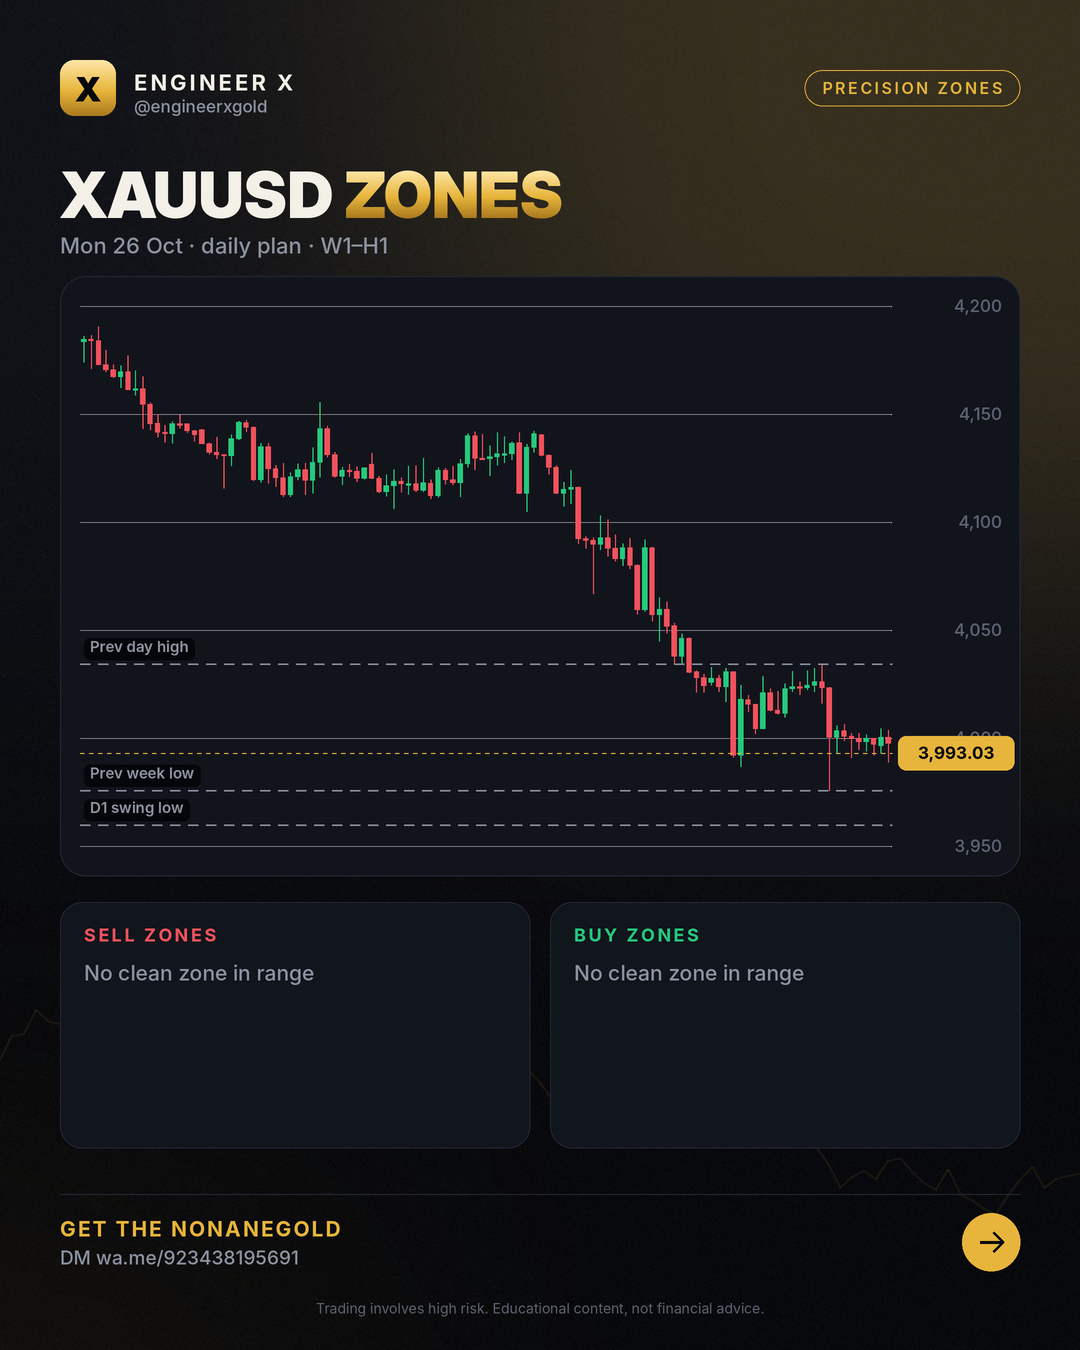
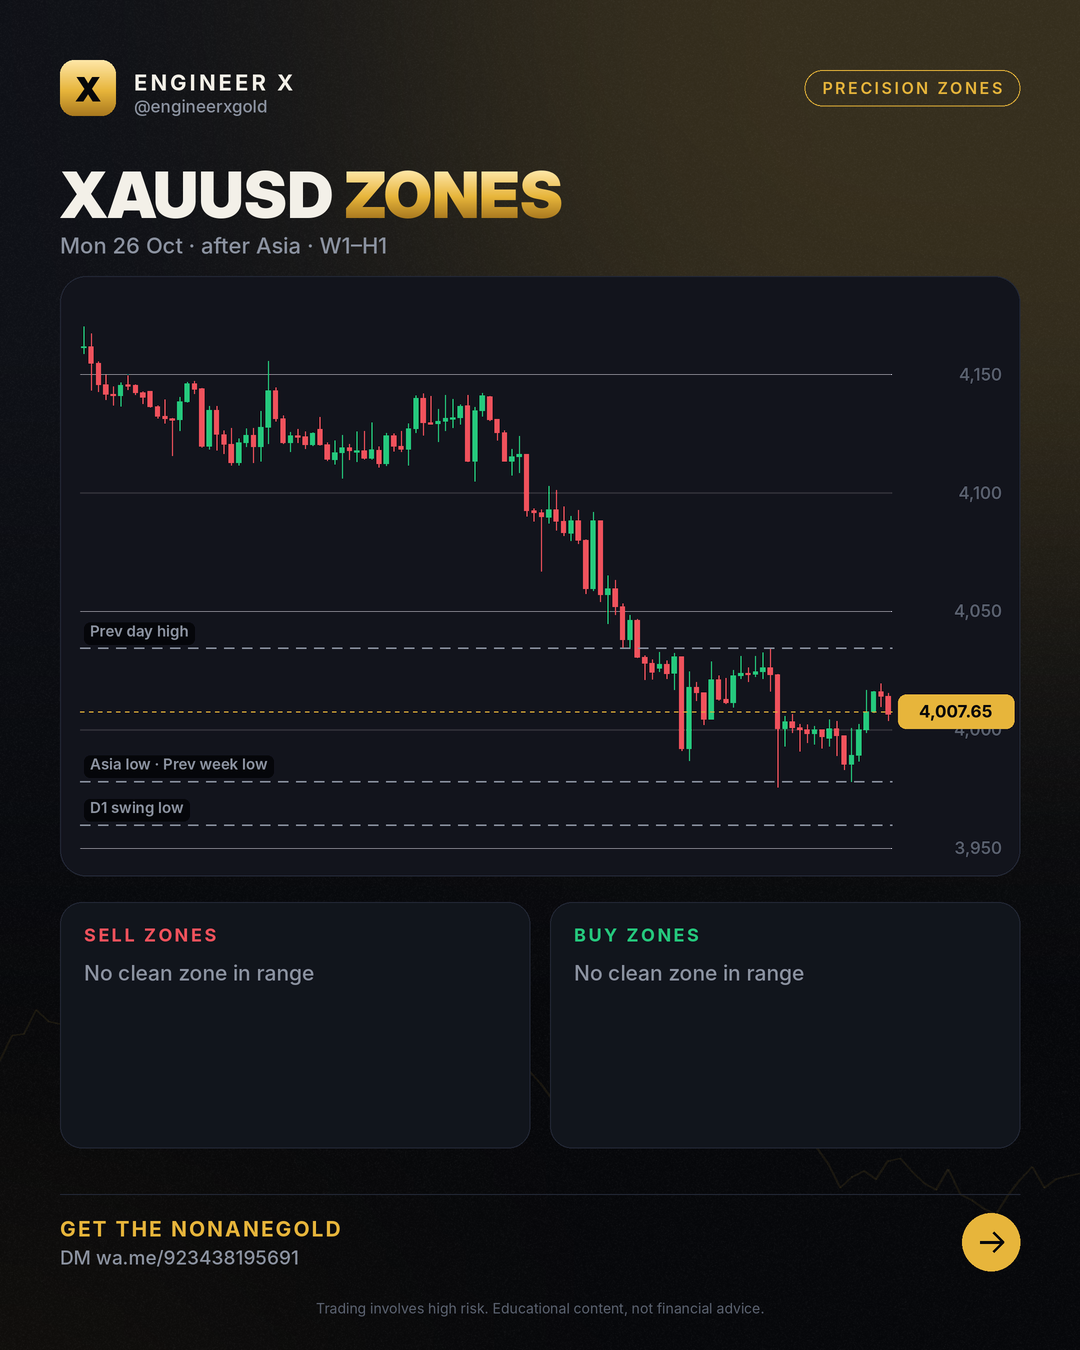
zones 2026-10-26 Mon 26 Oct · after Asia · W1–H1

diff --git a/zones/2026-10-26/index.html b/zones/2026-10-26/index.html
@@ -4,7 +4,7 @@
 <meta charset="utf-8">
 <meta name="viewport" content="width=device-width,initial-scale=1">
 <title>Gold Forecast – 26 Oct 2026 (W1–H1)</title>
-<meta name="description" content="XAUUSD buy and sell zones for 2026-10-26: tested W1, D1, H4 and H1 zones with invalidation levels, updated after the Asian, London and New York sessions. Price 3,993.03.">
+<meta name="description" content="XAUUSD buy and sell zones for 2026-10-26: tested W1, D1, H4 and H1 zones with invalidation levels, updated after the Asian, London and New York sessions. Price 4,007.65.">
 <meta name="robots" content="index,follow,max-image-preview:large,max-snippet:-1,max-video-preview:-1">
 <meta name="author" content="Engr. M Ahmad Mehmood">
 <link rel="canonical" href="https://engineerxgold.github.io/zones/2026-10-26/">
@@ -12,7 +12,7 @@
 <link rel="apple-touch-icon" href="../../img/logo.png">
 <meta property="og:site_name" content="Engineer X">
 <meta property="og:title" content="Gold Forecast – 26 Oct 2026 (W1–H1)">
-<meta property="og:description" content="XAUUSD buy and sell zones for 2026-10-26: tested W1, D1, H4 and H1 zones with invalidation levels, updated after the Asian, London and New York sessions. Price 3,993.03.">
+<meta property="og:description" content="XAUUSD buy and sell zones for 2026-10-26: tested W1, D1, H4 and H1 zones with invalidation levels, updated after the Asian, London and New York sessions. Price 4,007.65.">
 <meta property="og:type" content="article">
 <meta property="og:url" content="https://engineerxgold.github.io/zones/2026-10-26/">
 <meta property="og:image" content="https://engineerxgold.github.io/zones/img/2026-10-26.png">
@@ -22,7 +22,7 @@
 <meta property="og:locale" content="en_US">
 <meta name="twitter:card" content="summary_large_image">
 <meta name="twitter:title" content="Gold Forecast – 26 Oct 2026 (W1–H1)">
-<meta name="twitter:description" content="XAUUSD buy and sell zones for 2026-10-26: tested W1, D1, H4 and H1 zones with invalidation levels, updated after the Asian, London and New York sessions. Price 3,993.03.">
+<meta name="twitter:description" content="XAUUSD buy and sell zones for 2026-10-26: tested W1, D1, H4 and H1 zones with invalidation levels, updated after the Asian, London and New York sessions. Price 4,007.65.">
 <meta name="twitter:image" content="https://engineerxgold.github.io/zones/img/2026-10-26.png">
 <meta name="twitter:image:alt" content="Gold Forecast – 26 Oct 2026 (W1–H1)">
 
@@ -32,7 +32,7 @@
 <link rel="preconnect" href="https://fonts.googleapis.com">
 <link rel="preconnect" href="https://fonts.gstatic.com" crossorigin>
 <link href="https://fonts.googleapis.com/css2?family=Inter:wght@400;500;600;800;900&display=swap" rel="stylesheet">
-<script type="application/ld+json">{"@context": "https://schema.org", "@type": "Organization", "@id": "https://engineerxgold.github.io/#organization", "name": "Engineer X", "url": "https://engineerxgold.github.io/", "logo": {"@type": "ImageObject", "url": "https://engineerxgold.github.io/img/logo.png", "width": 512, "height": 512}, "sameAs": ["https://t.me/engineerxgold"]}</script><script type="application/ld+json">{"@context": "https://schema.org", "@type": "Article", "headline": "Gold Forecast – 26 Oct 2026 (W1–H1)", "datePublished": "2026-10-26T08:00:00+05:00", "dateModified": "2026-10-26T05:04:16+05:00", "author": {"@type": "Person", "@id": "https://engineerxgold.github.io/about/#author", "name": "Engr. M Ahmad Mehmood", "url": "https://engineerxgold.github.io/about/", "jobTitle": "MQL5 Expert Advisor developer and gold market analyst", "worksFor": {"@id": "https://engineerxgold.github.io/#organization"}}, "publisher": {"@id": "https://engineerxgold.github.io/#organization"}, "image": "https://engineerxgold.github.io/zones/img/2026-10-26.png", "mainEntityOfPage": "https://engineerxgold.github.io/zones/2026-10-26/"}</script>
+<script type="application/ld+json">{"@context": "https://schema.org", "@type": "Organization", "@id": "https://engineerxgold.github.io/#organization", "name": "Engineer X", "url": "https://engineerxgold.github.io/", "logo": {"@type": "ImageObject", "url": "https://engineerxgold.github.io/img/logo.png", "width": 512, "height": 512}, "sameAs": ["https://t.me/engineerxgold"]}</script><script type="application/ld+json">{"@context": "https://schema.org", "@type": "Article", "headline": "Gold Forecast – 26 Oct 2026 (W1–H1)", "datePublished": "2026-10-26T08:00:00+05:00", "dateModified": "2026-10-26T12:04:44+05:00", "author": {"@type": "Person", "@id": "https://engineerxgold.github.io/about/#author", "name": "Engr. M Ahmad Mehmood", "url": "https://engineerxgold.github.io/about/", "jobTitle": "MQL5 Expert Advisor developer and gold market analyst", "worksFor": {"@id": "https://engineerxgold.github.io/#organization"}}, "publisher": {"@id": "https://engineerxgold.github.io/#organization"}, "image": "https://engineerxgold.github.io/zones/img/2026-10-26.png", "mainEntityOfPage": "https://engineerxgold.github.io/zones/2026-10-26/"}</script>
 
 <style>
 :root{--gold:#E7B53B;--gold-hi:#FFE7A8;--bg:#07080B;--bg2:#0E1016;--panel:#12151D;--line:#232836;--green:#25C97D;--red:#F0525C;--text:#F3F0E8;--muted:#8C93A1}
@@ -101,7 +101,7 @@ footer .fl a{color:var(--muted);margin-right:16px}
 <div class="wrap">
 <nav><a class="logo" href="../../"><b>X</b>Engineer X</a>
 <div class="links"><a href="../../zones/">Daily Zones</a><a href="../../blog/">Learn</a><a href="../../ea/">Gold EA</a><a href="../../about/">About</a><a class="cta" href="https://wa.me/923438195691">Get the EA</a></div></nav>
-<article><p class="crumbs"><a href="../../">Home</a> › <a href="../">Zones</a> › 2026-10-26</p><h1>Gold Forecast – 26 Oct 2026 (W1–H1)</h1><p class="byline">Mon 26 Oct · daily plan · W1–H1 · by Engr. M Ahmad Mehmood</p><img src="../img/2026-10-26.png" alt="XAUUSD zone map 2026-10-26" width="1080" height="1350" loading="eager"><h2>Zones</h2><p>No clean zone within reach right now.</p><h2>How to read this map</h2><p>Bands are where price is expected to react; they are not entries. Trading beyond the invalidation price ends the zone; each zone counts once (first touch). Highs and lows listed as liquidity are targets: on 10 years of gold price ran through them more often than through random levels.</p><div class="ctabox"><h3>🤖 Trade the zones with the NonaneGold</h3><p>Free signals group access + setup help Message us and we will help you set it up.</p><div class="btns"><a class="btn gold" href="https://wa.me/923438195691">Get the EA on Telegram</a><a class="btn ghost" href="../../ea/">About the EA</a></div></div></article>
+<article><p class="crumbs"><a href="../../">Home</a> › <a href="../">Zones</a> › 2026-10-26</p><h1>Gold Forecast – 26 Oct 2026 (W1–H1)</h1><p class="byline">Mon 26 Oct · after Asia · W1–H1 · by Engr. M Ahmad Mehmood</p><img src="../img/2026-10-26.png" alt="XAUUSD zone map 2026-10-26" width="1080" height="1350" loading="eager"><h2>Zones</h2><p>No clean zone within reach right now.</p><h2>How to read this map</h2><p>Bands are where price is expected to react; they are not entries. Trading beyond the invalidation price ends the zone; each zone counts once (first touch). Highs and lows listed as liquidity are targets: on 10 years of gold price ran through them more often than through random levels.</p><div class="ctabox"><h3>🤖 Trade the zones with the NonaneGold</h3><p>Free signals group access + setup help Message us and we will help you set it up.</p><div class="btns"><a class="btn gold" href="https://wa.me/923438195691">Get the EA on Telegram</a><a class="btn ghost" href="../../ea/">About the EA</a></div></div></article>
 <footer>
 <div class="warn"><b>Risk warning:</b> Trading gold, forex and CFDs carries a high risk of losing money and is not suitable for everyone. Past results do not guarantee future results. Everything on this site is educational and not financial advice. We are an introducing partner of our broker and may earn a commission on accounts opened through our link.</div>
 <p class="fl" style="margin-top:18px"><a href="../../about/">About &amp; methodology</a><a href="../../privacy.html">Privacy</a><a href="../../terms.html">Terms &amp; risk disclosure</a><a href="../../feed.xml">RSS</a><a href="https://t.me/engineerxgold">Telegram</a></p>

diff --git a/zones/index.html b/zones/index.html
@@ -4,7 +4,7 @@
 <meta charset="utf-8">
 <meta name="viewport" content="width=device-width,initial-scale=1">
 <title>XAUUSD Zones Today – Buy &amp; Sell Zones (H4, H1) | Engineer X</title>
-<meta name="description" content="XAUUSD buy and sell zones for 2026-10-26: tested W1, D1, H4 and H1 zones with invalidation levels, updated after the Asian, London and New York sessions. Price 3,993.03.">
+<meta name="description" content="XAUUSD buy and sell zones for 2026-10-26: tested W1, D1, H4 and H1 zones with invalidation levels, updated after the Asian, London and New York sessions. Price 4,007.65.">
 <meta name="robots" content="index,follow,max-image-preview:large,max-snippet:-1,max-video-preview:-1">
 <meta name="author" content="Engr. M Ahmad Mehmood">
 <link rel="canonical" href="https://engineerxgold.github.io/zones/">
@@ -12,7 +12,7 @@
 <link rel="apple-touch-icon" href="../img/logo.png">
 <meta property="og:site_name" content="Engineer X">
 <meta property="og:title" content="XAUUSD Zones Today – Buy &amp; Sell Zones (H4, H1) | Engineer X">
-<meta property="og:description" content="XAUUSD buy and sell zones for 2026-10-26: tested W1, D1, H4 and H1 zones with invalidation levels, updated after the Asian, London and New York sessions. Price 3,993.03.">
+<meta property="og:description" content="XAUUSD buy and sell zones for 2026-10-26: tested W1, D1, H4 and H1 zones with invalidation levels, updated after the Asian, London and New York sessions. Price 4,007.65.">
 <meta property="og:type" content="website">
 <meta property="og:url" content="https://engineerxgold.github.io/zones/">
 <meta property="og:image" content="https://engineerxgold.github.io/zones/img/2026-10-26.png">
@@ -22,7 +22,7 @@
 <meta property="og:locale" content="en_US">
 <meta name="twitter:card" content="summary_large_image">
 <meta name="twitter:title" content="XAUUSD Zones Today – Buy &amp; Sell Zones (H4, H1) | Engineer X">
-<meta name="twitter:description" content="XAUUSD buy and sell zones for 2026-10-26: tested W1, D1, H4 and H1 zones with invalidation levels, updated after the Asian, London and New York sessions. Price 3,993.03.">
+<meta name="twitter:description" content="XAUUSD buy and sell zones for 2026-10-26: tested W1, D1, H4 and H1 zones with invalidation levels, updated after the Asian, London and New York sessions. Price 4,007.65.">
 <meta name="twitter:image" content="https://engineerxgold.github.io/zones/img/2026-10-26.png">
 <meta name="twitter:image:alt" content="XAUUSD Zones Today – Buy &amp; Sell Zones (H4, H1) | Engineer X">
 
@@ -101,7 +101,7 @@ footer .fl a{color:var(--muted);margin-right:16px}
 <div class="wrap">
 <nav><a class="logo" href="../"><b>X</b>Engineer X</a>
 <div class="links"><a href="../zones/">Daily Zones</a><a href="../blog/">Learn</a><a href="../ea/">Gold EA</a><a href="../about/">About</a><a class="cta" href="https://wa.me/923438195691">Get the EA</a></div></nav>
-<section class="hero"><span class="chip">Updated Mon 26 Oct · daily plan · W1–H1</span><h1>XAUUSD <span class="gold">precision zones</span></h1><p>XAUUSD buy and sell zones for 2026-10-26: tested W1, D1, H4 and H1 zones with invalidation levels, updated after the Asian, London and New York sessions. Price 3,993.03.</p></section><img src="img/2026-10-26.png" alt="Latest XAUUSD zone map" width="1080" height="1350"><section><h2>Current zones</h2><p>No clean zone within reach right now.</p></section><section><h2>Honest scorecard</h2><div class="grid"><div class="card"><div class="n">150</div><p>zones published (30 days)</p></div><div class="card"><div class="n">84</div><p>held (moved 1 hourly ATR away)</p></div><div class="card"><div class="n">7</div><p>broke (traded beyond the invalidation)</p></div><div class="card"><div class="n">92%</div><p>hold rate of decided zones</p></div></div></section><div class="ctabox"><h3>🤖 Trade the zones with the NonaneGold</h3><p>Free signals group access + setup help Message us and we will help you set it up.</p><div class="btns"><a class="btn gold" href="https://wa.me/923438195691">Get the EA on Telegram</a><a class="btn ghost" href="../ea/">About the EA</a></div></div><section><h2>Archive</h2><div class="grid posts"><a class="card" href="2026-10-26/"><span class="date">2026-10-26</span><h3>XAUUSD zones 2026-10-26</h3></a><a class="card" href="2026-10-23/"><span class="date">2026-10-23</span><h3>XAUUSD zones 2026-10-23</h3></a><a class="card" href="2026-10-22/"><span class="date">2026-10-22</span><h3>XAUUSD zones 2026-10-22</h3></a><a class="card" href="2026-10-21/"><span class="date">2026-10-21</span><h3>XAUUSD zones 2026-10-21</h3></a><a class="card" href="2026-10-20/"><span class="date">2026-10-20</span><h3>XAUUSD zones 2026-10-20</h3></a><a class="card" href="2026-10-19/"><span class="date">2026-10-19</span><h3>XAUUSD zones 2026-10-19</h3></a><a class="card" href="2026-10-16/"><span class="date">2026-10-16</span><h3>XAUUSD zones 2026-10-16</h3></a><a class="card" href="2026-10-15/"><span class="date">2026-10-15</span><h3>XAUUSD zones 2026-10-15</h3></a><a class="card" href="2026-10-14/"><span class="date">2026-10-14</span><h3>XAUUSD zones 2026-10-14</h3></a><a class="card" href="2026-10-13/"><span class="date">2026-10-13</span><h3>XAUUSD zones 2026-10-13</h3></a></div></section>
+<section class="hero"><span class="chip">Updated Mon 26 Oct · after Asia · W1–H1</span><h1>XAUUSD <span class="gold">precision zones</span></h1><p>XAUUSD buy and sell zones for 2026-10-26: tested W1, D1, H4 and H1 zones with invalidation levels, updated after the Asian, London and New York sessions. Price 4,007.65.</p></section><img src="img/2026-10-26.png" alt="Latest XAUUSD zone map" width="1080" height="1350"><section><h2>Current zones</h2><p>No clean zone within reach right now.</p></section><section><h2>Honest scorecard</h2><div class="grid"><div class="card"><div class="n">150</div><p>zones published (30 days)</p></div><div class="card"><div class="n">84</div><p>held (moved 1 hourly ATR away)</p></div><div class="card"><div class="n">7</div><p>broke (traded beyond the invalidation)</p></div><div class="card"><div class="n">92%</div><p>hold rate of decided zones</p></div></div></section><div class="ctabox"><h3>🤖 Trade the zones with the NonaneGold</h3><p>Free signals group access + setup help Message us and we will help you set it up.</p><div class="btns"><a class="btn gold" href="https://wa.me/923438195691">Get the EA on Telegram</a><a class="btn ghost" href="../ea/">About the EA</a></div></div><section><h2>Archive</h2><div class="grid posts"><a class="card" href="2026-10-26/"><span class="date">2026-10-26</span><h3>XAUUSD zones 2026-10-26</h3></a><a class="card" href="2026-10-23/"><span class="date">2026-10-23</span><h3>XAUUSD zones 2026-10-23</h3></a><a class="card" href="2026-10-22/"><span class="date">2026-10-22</span><h3>XAUUSD zones 2026-10-22</h3></a><a class="card" href="2026-10-21/"><span class="date">2026-10-21</span><h3>XAUUSD zones 2026-10-21</h3></a><a class="card" href="2026-10-20/"><span class="date">2026-10-20</span><h3>XAUUSD zones 2026-10-20</h3></a><a class="card" href="2026-10-19/"><span class="date">2026-10-19</span><h3>XAUUSD zones 2026-10-19</h3></a><a class="card" href="2026-10-16/"><span class="date">2026-10-16</span><h3>XAUUSD zones 2026-10-16</h3></a><a class="card" href="2026-10-15/"><span class="date">2026-10-15</span><h3>XAUUSD zones 2026-10-15</h3></a><a class="card" href="2026-10-14/"><span class="date">2026-10-14</span><h3>XAUUSD zones 2026-10-14</h3></a><a class="card" href="2026-10-13/"><span class="date">2026-10-13</span><h3>XAUUSD zones 2026-10-13</h3></a></div></section>
 <footer>
 <div class="warn"><b>Risk warning:</b> Trading gold, forex and CFDs carries a high risk of losing money and is not suitable for everyone. Past results do not guarantee future results. Everything on this site is educational and not financial advice. We are an introducing partner of our broker and may earn a commission on accounts opened through our link.</div>
 <p class="fl" style="margin-top:18px"><a href="../about/">About &amp; methodology</a><a href="../privacy.html">Privacy</a><a href="../terms.html">Terms &amp; risk disclosure</a><a href="../feed.xml">RSS</a><a href="https://t.me/engineerxgold">Telegram</a></p>

diff --git a/index.html b/index.html
@@ -101,7 +101,7 @@ footer .fl a{color:var(--muted);margin-right:16px}
 <div class="wrap">
 <nav><a class="logo" href="./"><b>X</b>Engineer X</a>
 <div class="links"><a href="./zones/">Daily Zones</a><a href="./blog/">Learn</a><a href="./ea/">Gold EA</a><a href="./about/">About</a><a class="cta" href="https://wa.me/923438195691">Get the EA</a></div></nav>
-<section class="hero"><span class="chip">XAUUSD · W1–H1 · every session</span><h1>Gold <span class="gold">precision zones</span>, updated after every session</h1><p>Tested buy and sell zones with clear invalidation, a scorecard of every result, and the NonaneGold for traders who want it automated.</p><div class="btns"><a class="btn gold" href="zones/">See today's zones</a><a class="btn ghost" href="https://wa.me/923438195691">Get the EA</a></div></section><section><h2>Latest map Mon 26 Oct · daily plan · W1–H1</h2><img src="zones/img/2026-10-26.png" alt="Latest XAUUSD zones" width="1080" height="1350"></section><div class="ctabox"><h3>🤖 Trade the zones with the NonaneGold</h3><p>Free signals group access + setup help Message us and we will help you set it up.</p><div class="btns"><a class="btn gold" href="https://wa.me/923438195691">Get the EA on Telegram</a><a class="btn ghost" href="ea/">About the EA</a></div></div><section><h2>Learn</h2><div class="grid posts"><a class="card" href="blog/gold-supply-and-demand-zones-for-xauusd-traders/"><span class="date">2026-10-26</span><h3>Gold supply and demand zones for XAUUSD traders</h3></a><a class="card" href="blog/xauusd-price-navigating-key-zones-and-liquidity/"><span class="date">2026-10-24</span><h3>xauusd price: Navigating Key Zones and Liquidity</h3></a><a class="card" href="blog/gold-supply-and-demand-zones-h4-trend-map/"><span class="date">2026-10-23</span><h3>Gold Supply and Demand Zones: H4 Trend Map</h3></a><a class="card" href="blog/gold-forecast-critical-h4-bearish-zones-liquidity/"><span class="date">2026-10-21</span><h3>Gold Forecast: Critical H4 Bearish Zones &amp; Liquidity</h3></a><a class="card" href="blog/gold-supply-and-demand-zones-h4-w1-map-analysis/"><span class="date">2026-10-20</span><h3>Gold Supply and Demand Zones: H4 &amp; W1 Map Analysis</h3></a><a class="card" href="blog/gold-trading-reading-h4-trend-liquidity-zones/"><span class="date">2026-10-19</span><h3>Gold Trading: Reading H4 Trend &amp; Liquidity Zones</h3></a></div></section><section><h2>FAQ</h2><details><summary>What is a precision zone?</summary><p>A point of interest from a trading book (OTE 0.705, balanced price range, weekly close level, daily order block) that held better than random levels on 10 years of gold. Each zone has an invalidation price.</p></details><details><summary>How often are the zones updated?</summary><p>A daily plan at the Asian open, then after the Asian, London and New York sessions.</p></details><details><summary>Are these trade signals?</summary><p>No. Zones are areas to watch. Wait for your own confirmation and manage risk.</p></details><details><summary>How do I get the Gold EA?</summary><p>Message us on Telegram or WhatsApp; we answer and help with the setup.</p></details></section>
+<section class="hero"><span class="chip">XAUUSD · W1–H1 · every session</span><h1>Gold <span class="gold">precision zones</span>, updated after every session</h1><p>Tested buy and sell zones with clear invalidation, a scorecard of every result, and the NonaneGold for traders who want it automated.</p><div class="btns"><a class="btn gold" href="zones/">See today's zones</a><a class="btn ghost" href="https://wa.me/923438195691">Get the EA</a></div></section><section><h2>Latest map Mon 26 Oct · after Asia · W1–H1</h2><img src="zones/img/2026-10-26.png" alt="Latest XAUUSD zones" width="1080" height="1350"></section><div class="ctabox"><h3>🤖 Trade the zones with the NonaneGold</h3><p>Free signals group access + setup help Message us and we will help you set it up.</p><div class="btns"><a class="btn gold" href="https://wa.me/923438195691">Get the EA on Telegram</a><a class="btn ghost" href="ea/">About the EA</a></div></div><section><h2>Learn</h2><div class="grid posts"><a class="card" href="blog/gold-supply-and-demand-zones-for-xauusd-traders/"><span class="date">2026-10-26</span><h3>Gold supply and demand zones for XAUUSD traders</h3></a><a class="card" href="blog/xauusd-price-navigating-key-zones-and-liquidity/"><span class="date">2026-10-24</span><h3>xauusd price: Navigating Key Zones and Liquidity</h3></a><a class="card" href="blog/gold-supply-and-demand-zones-h4-trend-map/"><span class="date">2026-10-23</span><h3>Gold Supply and Demand Zones: H4 Trend Map</h3></a><a class="card" href="blog/gold-forecast-critical-h4-bearish-zones-liquidity/"><span class="date">2026-10-21</span><h3>Gold Forecast: Critical H4 Bearish Zones &amp; Liquidity</h3></a><a class="card" href="blog/gold-supply-and-demand-zones-h4-w1-map-analysis/"><span class="date">2026-10-20</span><h3>Gold Supply and Demand Zones: H4 &amp; W1 Map Analysis</h3></a><a class="card" href="blog/gold-trading-reading-h4-trend-liquidity-zones/"><span class="date">2026-10-19</span><h3>Gold Trading: Reading H4 Trend &amp; Liquidity Zones</h3></a></div></section><section><h2>FAQ</h2><details><summary>What is a precision zone?</summary><p>A point of interest from a trading book (OTE 0.705, balanced price range, weekly close level, daily order block) that held better than random levels on 10 years of gold. Each zone has an invalidation price.</p></details><details><summary>How often are the zones updated?</summary><p>A daily plan at the Asian open, then after the Asian, London and New York sessions.</p></details><details><summary>Are these trade signals?</summary><p>No. Zones are areas to watch. Wait for your own confirmation and manage risk.</p></details><details><summary>How do I get the Gold EA?</summary><p>Message us on Telegram or WhatsApp; we answer and help with the setup.</p></details></section>
 <footer>
 <div class="warn"><b>Risk warning:</b> Trading gold, forex and CFDs carries a high risk of losing money and is not suitable for everyone. Past results do not guarantee future results. Everything on this site is educational and not financial advice. We are an introducing partner of our broker and may earn a commission on accounts opened through our link.</div>
 <p class="fl" style="margin-top:18px"><a href="./about/">About &amp; methodology</a><a href="./privacy.html">Privacy</a><a href="./terms.html">Terms &amp; risk disclosure</a><a href="./feed.xml">RSS</a><a href="https://t.me/engineerxgold">Telegram</a></p>
